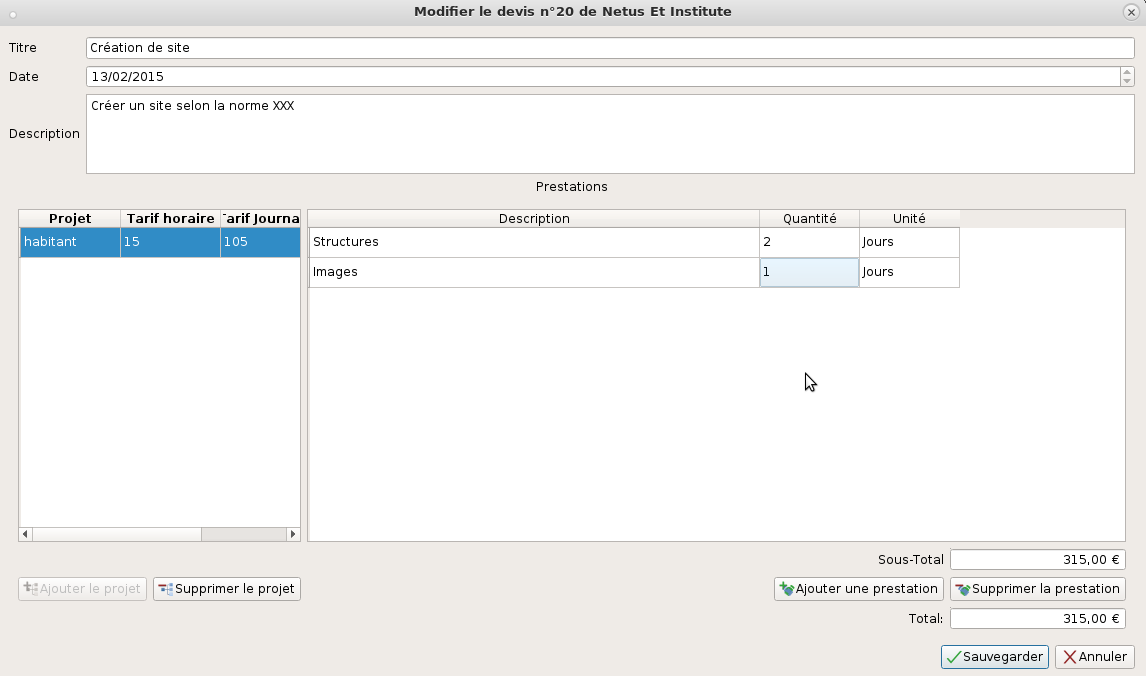
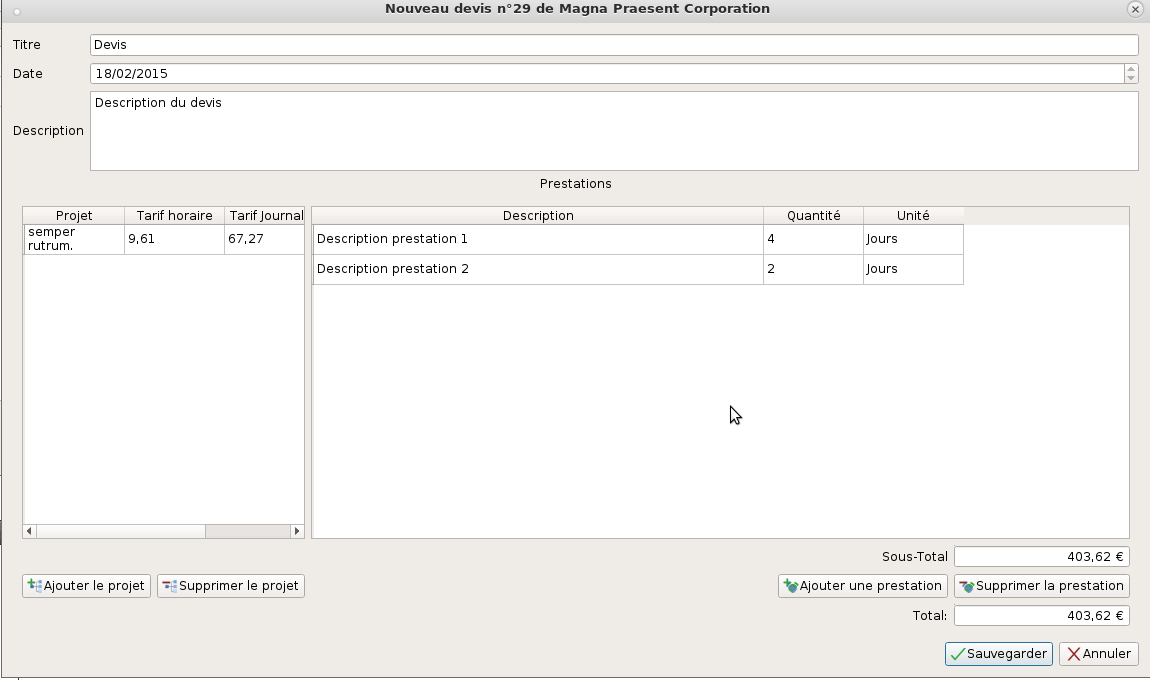
Add of Billing screen and Billing chapter

diff --git a/documents/userManual/contents/7-factures.tex b/documents/userManual/contents/7-factures.tex
@@ -1,15 +1,15 @@
 \chapter{Les factures}
 Les factures sont comme les devis une des fonctionnalités les plus importantes de l'application. De propriétés semblable, il est aussi possible de créer plusieurs factures pour un projet.
 \section{Liste des factures\index{Facture!Liste}}
-Pour afficher les factures d'un projet il faut, à partir du panneau contenant la liste des projets d'un client, faire un double clic sur le projet en question. La liste affichée contient les factures et les devis du projet sélectionné auparavant. C'est la même liste qui est affichée si l'on cherche à afficher les devis.
+Pour afficher les factures d'un projet il faut, à partir du panneau contenant la liste des projets d'un client, faire un double clic sur le projet en question. La liste affichée contient les factures et les devis du projet sélectionné auparavant.
 
 \section{Ajouter une facture\index{Facture!Ajouter}}
 Pour ajouter une facture, il est nécessaire de sélectionner un client dans le panneau central (si l'on est dans la liste des projets ou des factures, la nouvelle facture sera automatiquement ajouté à ce client). Une fois le client selectionné on crée une nouvelle facture en cliquant sur le bouton << Nouvelle facture >> de la barre d'outils ou via le menu << Client $\rightarrow$ Nouvelle facture >>. 
 \begin{figure}[H]
 	\centering
-	\includegraphics[width=7cm]{screens/creerDevis.png}
+	\includegraphics[width=15cm]{screens/creerFacture.png}
 	\caption{Créer une nouvelle facture à un projet client}
 \end{figure}
-Une facture possède un titre à afficher, une date (celle du jour de création du projet), une description et la liste des prestations qui lui sont associées. 
+Une facture possède un titre à afficher, une date (celle du jour de création du projet), une description et deux tableaux exactement comme lors de la création ou l'édition d'un devis. Le fonctionnement est le même que pour un devis.
 \section{Les Prestations\index{Facture!Prestation}}
-La liste des prestations sont affichées dans la fenêtre d'ajout d'une facture\index{Facture!Ajouter}. Une prestation peut être ajoutée, respectivement supprimée en utilisant les boutons << Ajouter une prestation >> et << Supprimer une prestation >>. Dans le cas d'un ajout, une nouvelle ligne est ajoutée au tableau des prestations. Cette ligne indique à quel projet est associé la prestation, une description de la prestation et le nombre d'heures que l'on va y consacrer. 
+Les prestations ont exactement le même comportemement que lorsqu'on fait une création ou une édition d'un devis.
